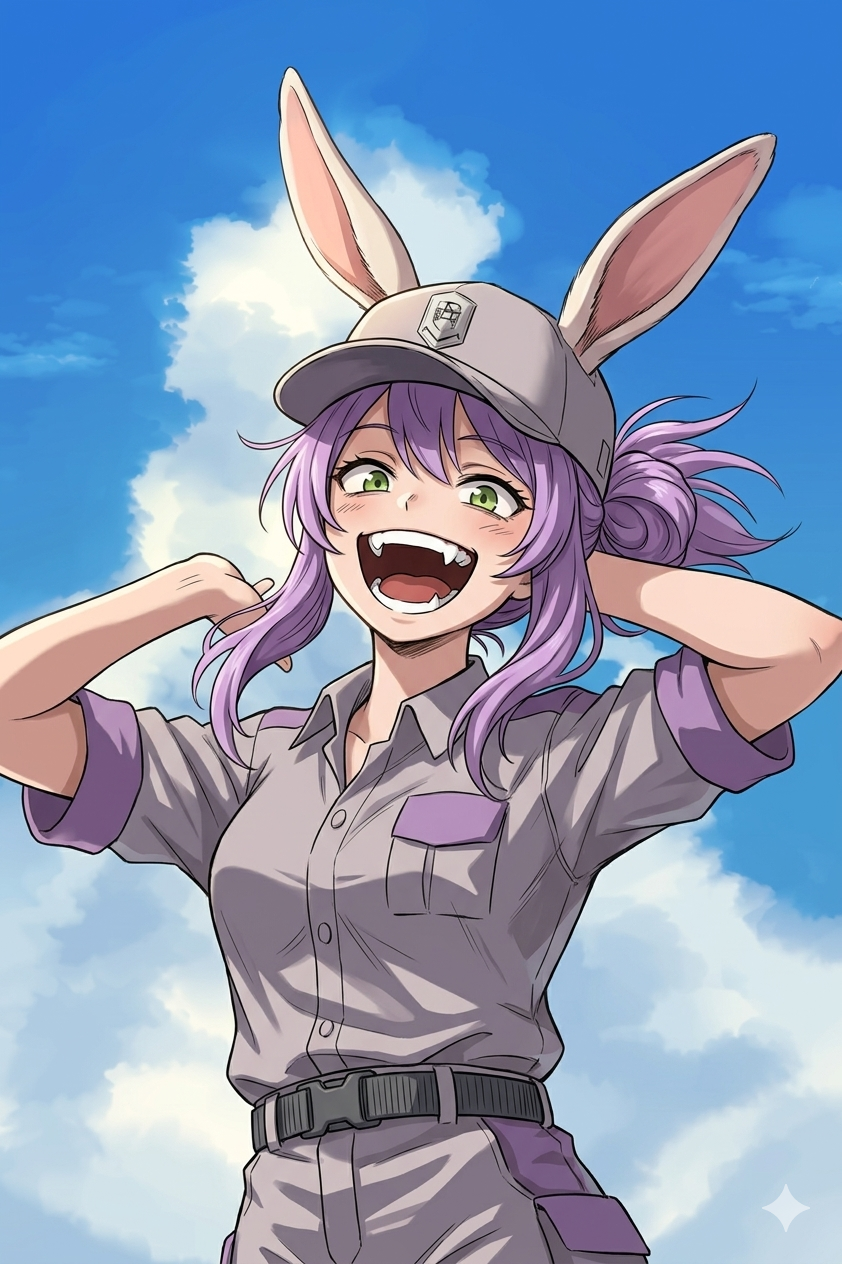
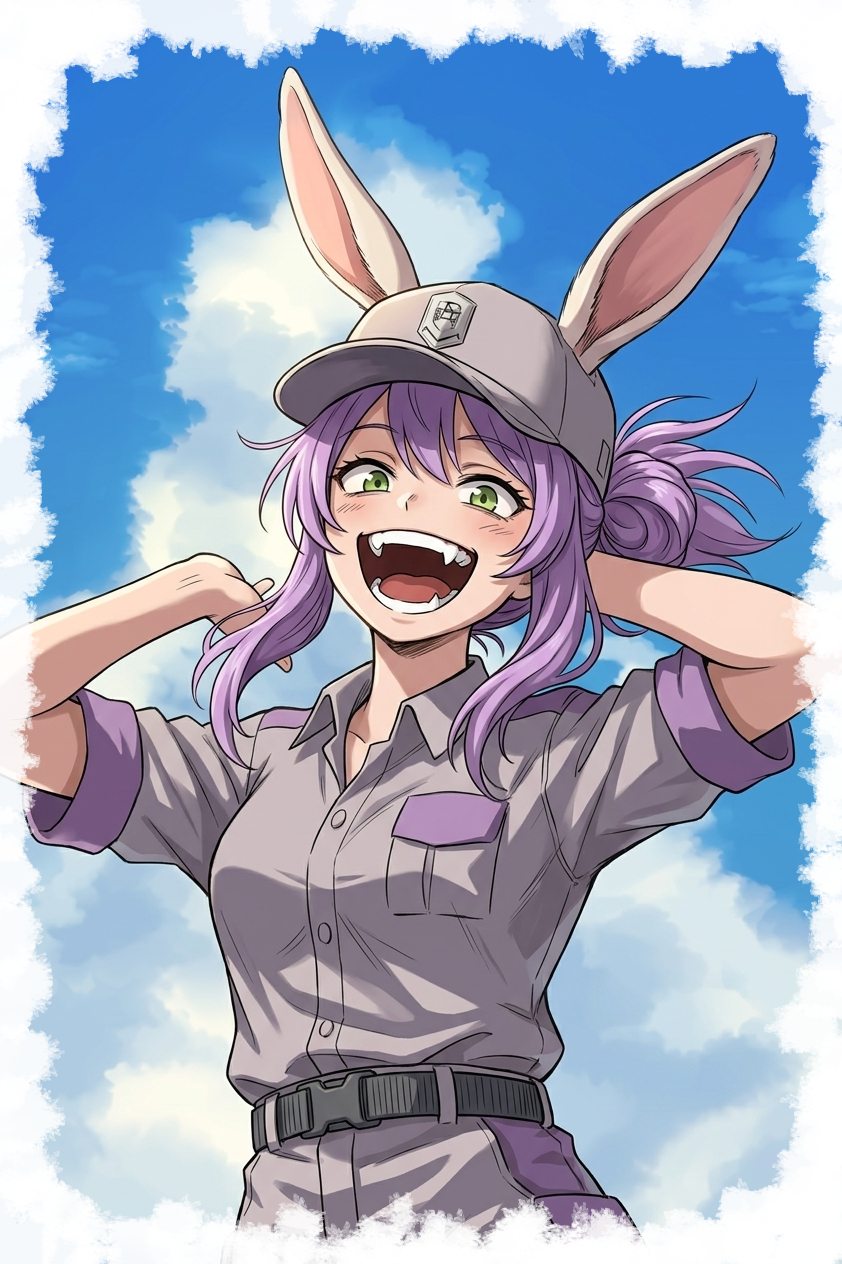
added welcome screen and bunny speech bubble v5

Changed region(s): [[0.0, 0.0, 1.0, 1.0]]

diff --git a/feedback/templates/feedback/index.html b/feedback/templates/feedback/index.html
@@ -17,22 +17,13 @@
             margin: 0; min-height: 100vh; color: white;
         }
 
-        /* --- ЭФФЕКТ PAINTED EDGES --- */
-        .painted-edge {
-            /* Применяем фильтр искривления краев */
-            filter: url(#rough-edges);
-            /* Добавляем легкую неровность формы */
-            border-radius: 255px 15px 225px 15px / 15px 225px 15px 255px !important;
-        }
-
         .neo-card {
             position: relative;
             background-image: url("{% static 'feedback/kawaii.png' %}");
             background-size: cover; background-position: center;
             border: 3px solid #000000; 
             box-shadow: 10px 10px 0px #000000;
-            overflow: hidden;
-            transition: transform 0.2s ease;
+            border-radius: 32px; overflow: hidden;
         }
 
         .neo-card::before {
@@ -47,16 +38,11 @@
             background-size: cover; background-position: center; background-color: white;
         }
 
-        .neo-input { 
-            border: 2px solid #000000; 
-            border-radius: 15px 25px 15px 25px / 25px 15px 25px 15px; 
-            background: rgba(248, 249, 250, 0.9); 
-            color: black; 
-        }
+        .neo-input { border: 2px solid #000000; border-radius: 20px; background: rgba(248, 249, 250, 0.9); color: black; }
         
         .neo-btn {
             background-color: var(--accent); border: 2px solid #000000;
-            box-shadow: 4px 4px 0px #000000; border-radius: 18px;
+            box-shadow: 4px 4px 0px #000000; border-radius: 22px;
             color: white; transition: all 0.2s cubic-bezier(0.34, 1.56, 0.64, 1);
         }
         .neo-btn:active { box-shadow: 0px 0px 0px #000000; transform: translate(3px, 3px); }
@@ -98,13 +84,6 @@
         .preserve-lines { white-space: pre-wrap; word-break: break-all; }
         .hidden { display: none !important; }
 
-        @keyframes floating {
-            0% { transform: translateY(0px); }
-            50% { transform: translateY(-12px); }
-            100% { transform: translateY(0px); }
-        }
-        .animate-float { animation: floating 3s ease-in-out infinite; }
-        
         #bunny-speech {
             position: absolute; top: -15px; right: 10px;
             background: white; color: black; padding: 10px 18px;
@@ -128,17 +107,8 @@
 </head>
 <body class="p-4">
 
-    <svg style="position: absolute; width: 0; height: 0;" width="0" height="0" version="1.1" xmlns="http://www.w3.org/2000/svg" xmlns:xlink="http://www.w3.org/1999/xlink">
-        <defs>
-            <filter id="rough-edges">
-                <feTurbulence type="fractalNoise" baseFrequency="0.04" numOctaves="3" result="noise" />
-                <feDisplacementMap in="SourceGraphic" in2="noise" scale="4" />
-            </filter>
-        </defs>
-    </svg>
-
     <div id="welcome-screen" class="flex flex-col items-center justify-center min-h-[90vh] text-center w-full max-w-md mx-auto">
-        <img src="{% static 'feedback/bunny_happy.png' %}" class="w-64 mb-6 drop-shadow-[0_15px_30px_rgba(173,136,185,0.4)] animate-float">
+        <img src="{% static 'feedback/bunny_happy.png' %}" class="w-64 mb-6 drop-shadow-[0_15px_30px_rgba(173,136,185,0.4)]">
         <h1 class="text-3xl font-bold text-white mb-2 uppercase tracking-tighter">Kawaii</h1>
         <p class="text-[10px] text-gray-500 font-bold uppercase tracking-[4px] mb-12">Service Support</p>
         
@@ -151,21 +121,20 @@
         <div id="form-container" class="w-full max-w-md mx-auto space-y-8">
             
             {% if success %}
-            <div class="neo-card painted-edge p-10 text-center">
+            <div id="success-view" class="neo-card p-10 text-center">
                 <div class="neo-card-content">
                     <div class="w-20 h-20 bg-green-500 border-4 border-black rounded-full flex items-center justify-center mx-auto mb-6 shadow-[4px_4px_0px_#000]">
                         <svg class="w-10 h-10 text-white" fill="none" stroke="currentColor" viewBox="0 0 24 24"><path stroke-linecap="round" stroke-linejoin="round" stroke-width="4" d="M5 13l4 4L19 7"></path></svg>
                     </div>
                     <h2 class="text-xl font-bold text-black uppercase mb-2">Yuborildi!</h2>
                     <p class="text-[10px] text-gray-600 font-bold uppercase mb-8">Tez orada javob beramiz</p>
-                    <button onclick="window.location.reload()" class="neo-btn w-full py-4 text-xs font-bold uppercase">Orqaga</button>
+                    
+                    <button onclick="goToForm()" class="neo-btn w-full py-4 text-xs font-bold uppercase">Orqaga</button>
                 </div>
             </div>
             {% else %}
-            <div class="neo-card painted-edge p-8 relative">
-                
+            <div class="neo-card p-8 relative">
                 <div id="bunny-speech">...</div>
-
                 <div class="neo-card-content">
                     <div class="flex items-center justify-between mb-8">
                         <div>
@@ -210,9 +179,7 @@
                                 class="neo-input w-full p-4 bg-white/90 text-black h-32 resize-none focus:outline-none text-xs font-bold"></textarea>
                         </div>
 
-                        <button type="submit" id="submit-btn" class="neo-btn w-full py-4 font-bold text-xs">
-                            <span class="uppercase">Yuborish</span>
-                        </button>
+                        <button type="submit" id="submit-btn" class="neo-btn w-full py-4 font-bold text-xs uppercase">Yuborish</button>
                     </form>
                 </div>
             </div>
@@ -222,13 +189,7 @@
             <div id="history-section" class="space-y-4 pb-10">
                 <div class="flex items-center justify-between px-2">
                     <h3 class="text-[10px] font-bold uppercase tracking-[3px] text-white/50">Mening murojaatlarim</h3>
-                    
-                    <button 
-                        hx-get="{% url 'load_more_tickets' %}?user_id={{ user_id }}&offset=0" 
-                        hx-target="#history-list-container" 
-                        hx-swap="innerHTML"
-                        onclick="tg.HapticFeedback.impactOccurred('light')"
-                        class="text-[#ad88b9] text-[9px] font-bold uppercase flex items-center gap-1 active:scale-90 transition-transform">
+                    <button hx-get="{% url 'load_more_tickets' %}?user_id={{ user_id }}&offset=0" hx-target="#history-list-container" hx-swap="innerHTML" class="text-[#ad88b9] text-[9px] font-bold uppercase flex items-center gap-1 active:scale-90 transition-transform">
                         <span>Yopish</span>
                         <svg class="w-3 h-3" fill="none" stroke="currentColor" viewBox="0 0 24 24"><path stroke-linecap="round" stroke-linejoin="round" stroke-width="3" d="M5 15l7-7 7 7"></path></svg>
                     </button>
@@ -236,13 +197,11 @@
                 
                 <div id="history-list-container" class="space-y-4">
                     {% for item in history %}
-                    <div class="history-card painted-edge overflow-hidden" data-ticket-id="{{ item.id }}">
+                    <div class="history-card overflow-hidden" data-ticket-id="{{ item.id }}">
                         <div class="p-5 cursor-pointer" onclick="toggleCard(this)">
                             <div class="flex justify-between items-start mb-3">
                                 <span class="text-[8px] px-2 py-1 bg-[#ad88b9] text-white rounded-lg uppercase font-bold border border-black shadow-[2px_2px_0px_#000000]">{{ item.get_category_display }}</span>
-                                <span class="text-[8px] text-white/40 uppercase font-bold local-time" data-utc="{{ item.created_at|date:'c' }}">
-                                    {{ item.created_at|date:"d.m.Y H:i" }}
-                                </span>
+                                <span class="text-[8px] text-white/40 uppercase font-bold local-time" data-utc="{{ item.created_at|date:'c' }}">{{ item.created_at|date:"d.m.Y H:i" }}</span>
                             </div>
                             <p class="preview-text text-white text-xs font-bold uppercase tracking-tight truncate">{{ item.subject }}</p>
                         </div>
@@ -253,12 +212,10 @@
                                     <div class="flex flex-col {% if msg.role == 'user' %}items-end{% else %}items-start{% endif %}">
                                         <div class="{% if msg.role == 'user' %}bubble-user shadow-[3px_3px_0px_#000]{% else %}bubble-admin{% endif %} p-3 max-w-[85%]">
                                             <p class="text-[11px] font-bold preserve-lines text-white leading-relaxed">{{ msg.text }}</p>
-                                            <span class="text-[7px] opacity-40 mt-1 block font-bold local-time-msg" data-utc="{{ msg.time }}">
-                                                {{ msg.time }}
-                                            </span>
+                                            <span class="text-[7px] opacity-40 mt-1 block font-bold local-time-msg" data-utc="{{ msg.time }}">{{ msg.time }}</span>
                                         </div>
                                     </div>
-                                {% endfor %}
+                                {% end0for %}
                             </div>
 
                             {% if not item.is_closed %}
@@ -266,36 +223,22 @@
                                     {% csrf_token %}
                                     <input type="hidden" name="user_id" value="{{ user_id }}">
                                     <input type="text" name="new_reply" placeholder="Xabar yozish..." required class="neo-input flex-1 px-3 py-2 text-[10px] h-10 font-bold focus:outline-none bg-white/90">
-                                    <button type="submit" onclick="tg.HapticFeedback.impactOccurred('light')" class="w-10 h-10 flex-shrink-0 bg-[#ad88b9] text-white rounded-xl border-2 border-black shadow-[2px_2px_0px_#000000] flex items-center justify-center">
+                                    <button type="submit" class="w-10 h-10 flex-shrink-0 bg-[#ad88b9] text-white rounded-xl border-2 border-black shadow-[2px_2px_0px_#000000] flex items-center justify-center">
                                         <svg class="w-4 h-4" fill="none" stroke="currentColor" viewBox="0 0 24 24"><path stroke-linecap="round" stroke-linejoin="round" stroke-width="3" d="M12 19l9 2-9-18-9 18 9-2zm0 0v-8"></path></svg>
                                     </button>
                                 </form>
-                                
                                 <div class="flex justify-between items-center border-t border-white/10 pt-4">
                                     <div class="{% if item.is_answered %}status-pending{% else %}status-open{% endif %} flex items-center text-[9px] font-bold uppercase {% if item.is_answered %}text-yellow-500{% else %}text-green-500{% endif %}">
                                         <span class="dot"></span> {% if item.is_answered %}Ko'rib chiqilmoqda{% else %}Ochiq{% endif %}
                                     </div>
-                                    <button hx-post="{% url 'close_ticket' item.id %}" hx-target="#form-container" hx-select="#form-container" hx-vals='{"user_id": "{{ user_id }}"}' hx-headers='{"X-CSRFToken": "{{ csrf_token }}"}' onclick="tg.HapticFeedback.impactOccurred('medium')" class="text-[8px] font-bold bg-[#ad88b9] text-white px-3 py-2 rounded-xl border-2 border-black shadow-[2px_2px_0px_#000000] uppercase">Yopish</button>
+                                    <button hx-post="{% url 'close_ticket' item.id %}" hx-target="#form-container" hx-select="#form-container" hx-vals='{"user_id": "{{ user_id }}"}' class="text-[8px] font-bold bg-[#ad88b9] text-white px-3 py-2 rounded-xl border-2 border-black shadow-[2px_2px_0px_#000000] uppercase">Yopish</button>
                                 </div>
                             {% else %}
-                                <div class="pt-4 border-t border-white/10 text-[8px] font-bold uppercase text-white/20 tracking-widest text-center flex items-center justify-center">
-                                   <span class="mr-2">🔒</span> Murojaat yopilgan
-                                </div>
+                                <div class="pt-4 border-t border-white/10 text-[8px] font-bold uppercase text-white/20 tracking-widest text-center">🔒 Murojaat yopilgan</div>
                             {% endif %}
                         </div>
                     </div>
                     {% endfor %}
-                    
-                    {% if has_more_tickets %}
-                    <button id="load-more-btn"
-                            hx-get="{% url 'load_more_tickets' %}?offset={{ next_offset }}&user_id={{ user_id }}"
-                            hx-target="this" 
-                            hx-swap="outerHTML"
-                            onclick="tg.HapticFeedback.impactOccurred('medium')"
-                            class="neo-btn w-full py-4 mt-4 text-[10px] font-bold uppercase !bg-transparent border-2 !border-white/20 !text-white !shadow-[4px_4px_0px_rgba(255,255,255,0.2)] active:!shadow-[0px_0px_0px_rgba(255,255,255,0.2)]">
-                        Yana yuklash
-                    </button>
-                    {% endif %}
                 </div>
             </div>
             {% endif %}
@@ -309,6 +252,12 @@
         tg.setHeaderColor('#0c0a14');
 
         let activeTicketId = null;
+
+        // Функция перехода к форме без экрана приветствия
+        function goToForm() {
+            const uId = tg.initDataUnsafe?.user?.id || "";
+            window.location.href = window.location.pathname + `?user_id=${uId}&skip_welcome=true`;
+        }
 
         function updateAllTimes() {
             document.querySelectorAll('.local-time, .local-time-msg').forEach(el => {
@@ -331,28 +280,34 @@
 
         function setupLogic() {
             const user = tg.initDataUnsafe?.user;
+            const urlParams = new URLSearchParams(window.location.search);
+            
+            // АВТО-ПЕРЕХОД: Если уже есть данные или флаг skip_welcome, скрываем приветствие
+            if (urlParams.has('user_id') || urlParams.has('skip_welcome') || document.getElementById('success-view')) {
+                document.getElementById('welcome-screen').classList.add('hidden');
+                document.getElementById('main-app').classList.remove('hidden');
+            }
+
             if (user) {
                 const uId = user.id.toString();
-                const uName = user.username || "anonymous";
                 if (document.getElementById('user_id_input')) document.getElementById('user_id_input').value = uId;
-                if (document.getElementById('username_input')) document.getElementById('username_input').value = uName;
-                const urlParams = new URLSearchParams(window.location.search);
+                if (document.getElementById('username_input')) document.getElementById('username_input').value = user.username || "anonymous";
                 if (!urlParams.has('user_id')) {
-                    window.location.replace(window.location.pathname + `?user_id=${uId}`);
+                    window.history.replaceState(null, null, `?user_id=${uId}`);
                 }
             }
 
+            // Кастомный селект
             const selectWrapper = document.getElementById('custom-select');
-            const optionsList = document.getElementById('select-options');
-            const arrow = document.getElementById('select-arrow');
-
             if (selectWrapper) {
-                selectWrapper.onclick = (e) => {
+                const optionsList = document.getElementById('select-options');
+                const arrow = document.getElementById('select-arrow');
+                selectWrapper.onclick = () => {
                     optionsList.classList.toggle('show');
                     if(arrow) arrow.style.transform = optionsList.classList.contains('show') ? 'rotate(180deg)' : 'rotate(0deg)';
                 };
-                document.querySelectorAll('.custom-option').forEach(option => {
-                    option.onclick = (e) => {
+                document.querySelectorAll('.custom-option').forEach(opt => {
+                    opt.onclick = (e) => {
                         document.getElementById('selected-text').innerText = e.target.innerText;
                         document.getElementById('category_input').value = e.target.getAttribute('data-value');
                         optionsList.classList.remove('show');
@@ -361,90 +316,61 @@
                     };
                 });
             }
-            
-            if (activeTicketId) {
-                const card = document.querySelector(`.history-card[data-ticket-id="${activeTicketId}"]`);
-                if (card) {
-                    card.querySelector('.expanded-content').classList.remove('hidden');
-                    card.querySelector('.preview-text').classList.add('hidden');
-                }
-            }
             updateAllTimes();
         }
 
-        setupLogic();
+        document.addEventListener('DOMContentLoaded', () => {
+            setupLogic();
+            const startBtn = document.getElementById('start-btn');
+            if (startBtn) {
+                startBtn.onclick = () => {
+                    document.getElementById('welcome-screen').classList.add('hidden');
+                    document.getElementById('main-app').classList.remove('hidden');
+                    startBunnyInteractions();
+                };
+            }
+        });
 
-        document.body.addEventListener('htmx:afterSettle', (evt) => {
+        // HTMX обработка обновлений
+        document.body.addEventListener('htmx:afterSettle', () => {
             setupLogic();
             if (activeTicketId) {
-                const activeChat = document.querySelector(`.history-card[data-ticket-id="${activeTicketId}"] .chat-container`);
-                if (activeChat) activeChat.scrollTop = activeChat.scrollHeight;
+                const container = document.querySelector(`.history-card[data-ticket-id="${activeTicketId}"] .chat-container`);
+                if (container) container.scrollTop = container.scrollHeight;
             }
         });
 
         window.toggleCard = function(element) {
             const card = element.closest('.history-card');
-            const ticketId = card.getAttribute('data-ticket-id');
             const content = card.querySelector('.expanded-content');
             const preview = card.querySelector('.preview-text');
             const isOpening = content.classList.contains('hidden');
             
             content.classList.toggle('hidden');
             preview.classList.toggle('hidden');
+            activeTicketId = isOpening ? card.getAttribute('data-ticket-id') : null;
             
             if(isOpening) {
-                activeTicketId = ticketId;
-                const container = content.querySelector('.chat-container');
-                if(container) container.scrollTop = container.scrollHeight;
+                const chat = content.querySelector('.chat-container');
+                if(chat) chat.scrollTop = chat.scrollHeight;
                 tg.HapticFeedback.impactOccurred('light');
-            } else {
-                activeTicketId = null;
             }
         };
 
-        document.addEventListener('DOMContentLoaded', () => {
-            const welcomeScreen = document.getElementById('welcome-screen');
-            const mainApp = document.getElementById('main-app');
-            const startBtn = document.getElementById('start-btn');
-            const speechBubble = document.getElementById('bunny-speech');
-            const hasHistory = document.getElementById('history-section') !== null;
-
-            if (startBtn) {
-                startBtn.addEventListener('click', () => {
-                    welcomeScreen.classList.add('hidden');
-                    mainApp.classList.remove('hidden');
-                    if (hasHistory && speechBubble) {
-                        startBunnyInteractions();
-                    }
-                });
-            }
-
-            const bunnyPhrases = [
-                "Yana savolmi? Charchadim-ku... ☕",
-                "Adminlar xabaringizni o'qishmoqda.",
-                "Kakaoyim tugab qolyapti...",
-                "Hali ham javob kelmadimi?",
-                "Yangi murojaat? Xo'p, yozing...",
-                "Bugun juda ko'p ishladim ✨"
-            ];
-
-            function startBunnyInteractions() {
-                setInterval(() => {
-                    if (Math.random() > 0.4) {
-                        const phrase = bunnyPhrases[Math.floor(Math.random() * bunnyPhrases.length)];
-                        speechBubble.innerText = phrase;
-                        
-                        speechBubble.style.opacity = '1';
-                        speechBubble.style.transform = 'translateY(0) scale(1)';
-                        
-                        setTimeout(() => {
-                            speechBubble.style.opacity = '0';
-                            speechBubble.style.transform = 'translateY(15px) scale(0.8)';
-                        }, 5000);
-                    }
-                }, 15000);
-            }
-        });
+        function startBunnyInteractions() {
+            const phrases = ["Yana savolmi? ☕", "Adminlar o'qimoqda...", "Hali ham javob yo'qmi?", "Yozing, yordam beraman! ✨"];
+            const bubble = document.getElementById('bunny-speech');
+            if (!bubble) return;
+            setInterval(() => {
+                if (Math.random() > 0.5) {
+                    bubble.innerText = phrases[Math.floor(Math.random() * phrases.length)];
+                    bubble.style.opacity = '1'; bubble.style.transform = 'translateY(0) scale(1)';
+                    setTimeout(() => { 
+                        bubble.style.opacity = '0'; bubble.style.transform = 'translateY(15px) scale(0.8)'; 
+                    }, 4000);
+                }
+            }, 12000);
+        }
     </script>
 </body>
 </html>
